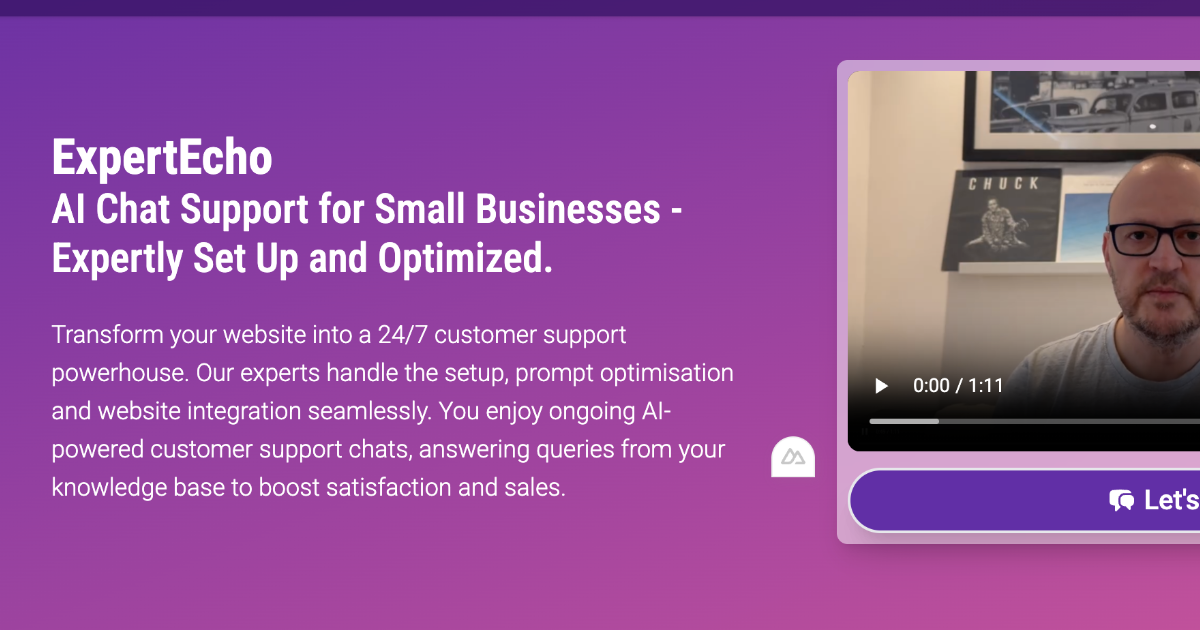
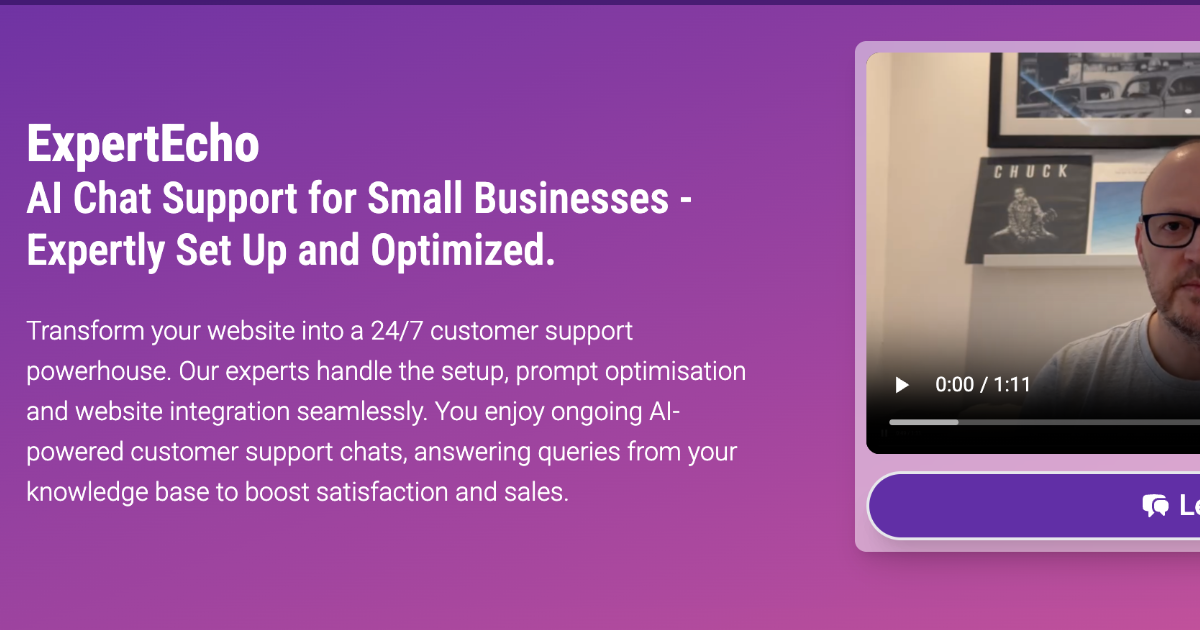
Replace preview image - nuxt button removed

diff --git a/nuxt.config.ts b/nuxt.config.ts
@@ -48,7 +48,7 @@ export default defineNuxtConfig({
 				{
 					property: 'og:image',
 					content:
-						'https://expertecho.ai/expert-echo-preview.png?v=20260126',
+						'https://expertecho.ai/expert-echo-preview.png?v=20260127',
 				},
 				{
 					name: 'twitter:card',
@@ -66,7 +66,7 @@ export default defineNuxtConfig({
 				{
 					name: 'twitter:image',
 					content:
-						'https://expertecho.ai/expert-echo-preview.png?v=20260126',
+						'https://expertecho.ai/expert-echo-preview.png?v=20260127',
 				},
 			],
 			link: [{}],
